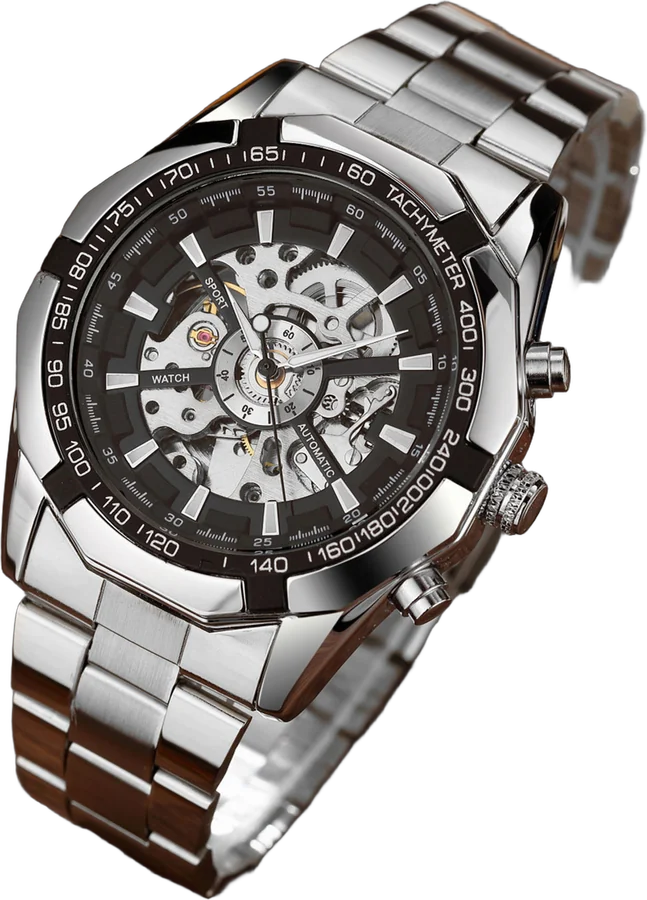
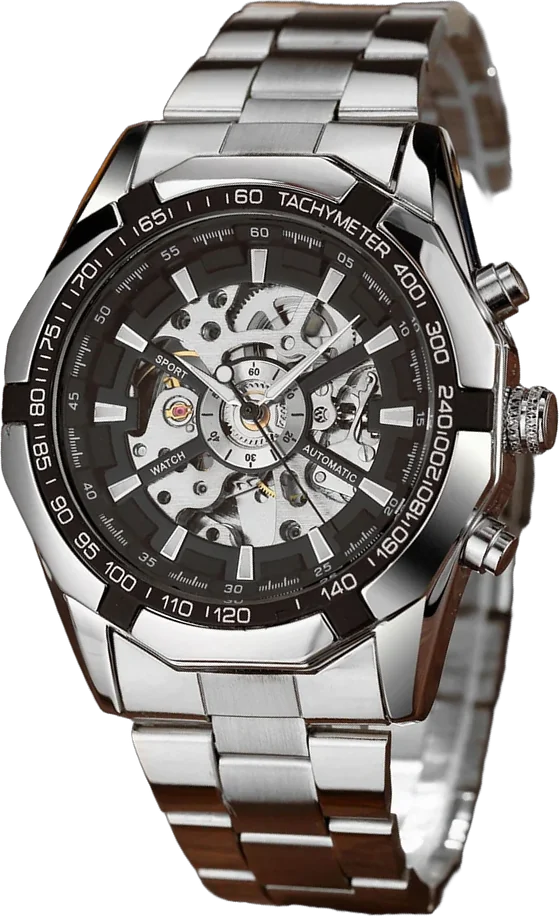
Stand every watch upright, dial facing the shopper
Straighten tilted watch cut-outs (scripts/watch_upright.py, also applied by the
cutouts run to every new or re-picked watch), pick a straight front photo for 32
watches shown tilted, lying flat or in sets, and hide 24 with no such photo
(wrist shots, pocket watches, gift boxes, pairs).

Claude-Session: https://claude.ai/code/session_01BVg3Sr5nRHapTfmwXVoVYQ

diff --git a/scripts/watch_upright.py b/scripts/watch_upright.py
@@ -1,0 +1,63 @@
+"""Stand every watch upright: dial facing the shopper, strap running straight up and down (owner, 2026-10-27).
+
+The strap is the long axis of a watch's cut-out, so the cut-out is turned until that axis is vertical. Only small
+tilts are turned automatically (past 45° the turn could put 12 o'clock at the bottom); bigger turns are set by eye
+in public/cutouts/rotate.json ({product id: degrees counter-clockwise}).
+Run on its own to straighten the watch cut-outs already on disk: python scripts/watch_upright.py <id> [<id> ...]
+"""
+import json
+import os
+import re
+import sys
+
+import numpy as np
+from PIL import Image
+
+WATCH = re.compile(r'\bwrist ?watch|\bwatch(es)?\b', re.I)
+ROTATE_PATH = 'public/cutouts/rotate.json'
+MAX_AUTO = 45
+MIN_TILT = 6
+
+
+def is_watch(product) -> bool:
+    return (product.get('storeSubcategory') or '').endswith('watches') or bool(WATCH.search(product.get('title', '')))
+
+
+def tilt(cutout: Image.Image):
+    """Degrees to turn counter-clockwise so the long axis stands vertical, or None when the shape has no clear long axis."""
+    ys, xs = np.nonzero(np.array(cutout.getchannel('A')) > 128)
+    if len(xs) < 1000:
+        return None
+    values, vectors = np.linalg.eigh(np.cov(np.vstack([xs - xs.mean(), ys - ys.mean()])))
+    if values[1] < 1.4 ** 2 * values[0]:  # round, with no strap to go by
+        return None
+    vx, vy = vectors[:, 1]
+    angle = np.degrees(np.arctan2(vx, vy))
+    angle = (angle + 90) % 180 - 90
+    return -float(angle)
+
+
+def upright(cutout: Image.Image, pid: str, rotations=None) -> Image.Image:
+    rotations = rotations if rotations is not None else (json.load(open(ROTATE_PATH)) if os.path.exists(ROTATE_PATH) else {})
+    angle = rotations.get(pid)
+    if angle is None:
+        angle = tilt(cutout)
+        if angle is None or abs(angle) < MIN_TILT or abs(angle) > MAX_AUTO:
+            return cutout
+    return cutout.rotate(angle, expand=True, resample=Image.BICUBIC)
+
+
+def crop(cutout: Image.Image) -> Image.Image:
+    box = cutout.getchannel('A').point(lambda a: 255 if a > 8 else 0).getbbox()
+    return cutout.crop(box) if box else cutout
+
+
+if __name__ == '__main__':
+    manifest = json.load(open('public/cutouts/manifest.json'))
+    for pid in sys.argv[1:]:
+        path = 'public' + manifest[pid]
+        image = Image.open(path).convert('RGBA')
+        turned = upright(image, pid)
+        if turned is not image:
+            crop(turned).save(path, 'WEBP', quality=86, method=6)
+            print(pid, 'straightened')

diff --git a/scripts/cutouts.py b/scripts/cutouts.py
@@ -23,6 +23,8 @@ import numpy as np
 from PIL import Image
 from rembg import new_session, remove
 
+from watch_upright import is_watch, upright
+
 CATALOG_URL = os.environ.get('CATALOG_URL', 'https://feature-3d-fashion-storefron.davinova.pages.dev/api/catalog?all=1')
 HERO_URL = 'https://images.unsplash.com/photo-1568251188392-ae32f898cb3b?auto=format&fit=crop&w=1400&q=85'
 FACE_MODEL = os.path.join(os.path.dirname(__file__), 'models', 'face_detection_yunet_2023mar.onnx')
@@ -289,14 +291,16 @@ def main() -> int:
                     reasons.append(f'{index}: {problem}')
                     continue
                 chosen = index
-                finish(cutout).save(os.path.join(OUT, f'{pid}.webp'), 'WEBP', quality=86, method=6)
+                # Owner (2026-10-27): every watch stands upright, dial facing the shopper.
+                finish(upright(cutout, pid) if is_watch(product) else cutout).save(os.path.join(OUT, f'{pid}.webp'), 'WEBP', quality=86, method=6)
                 break
             except Exception as error:
                 reasons.append(f'{index}: failed {error}')
         if repick and not hair:
             try:
                 image = open_photo(images[pick]['url'])
-                finish(remove(image, session=object_session if kind == 'object' else session)).save(os.path.join(OUT, f'{pid}.webp'), 'WEBP', quality=86, method=6)
+                cutout = remove(image, session=object_session if kind == 'object' else session)
+                finish(upright(cutout, pid) if is_watch(product) else cutout).save(os.path.join(OUT, f'{pid}.webp'), 'WEBP', quality=86, method=6)
                 chosen = pick
             except Exception as error:
                 reasons.append(f'{pick}: failed {error}')
